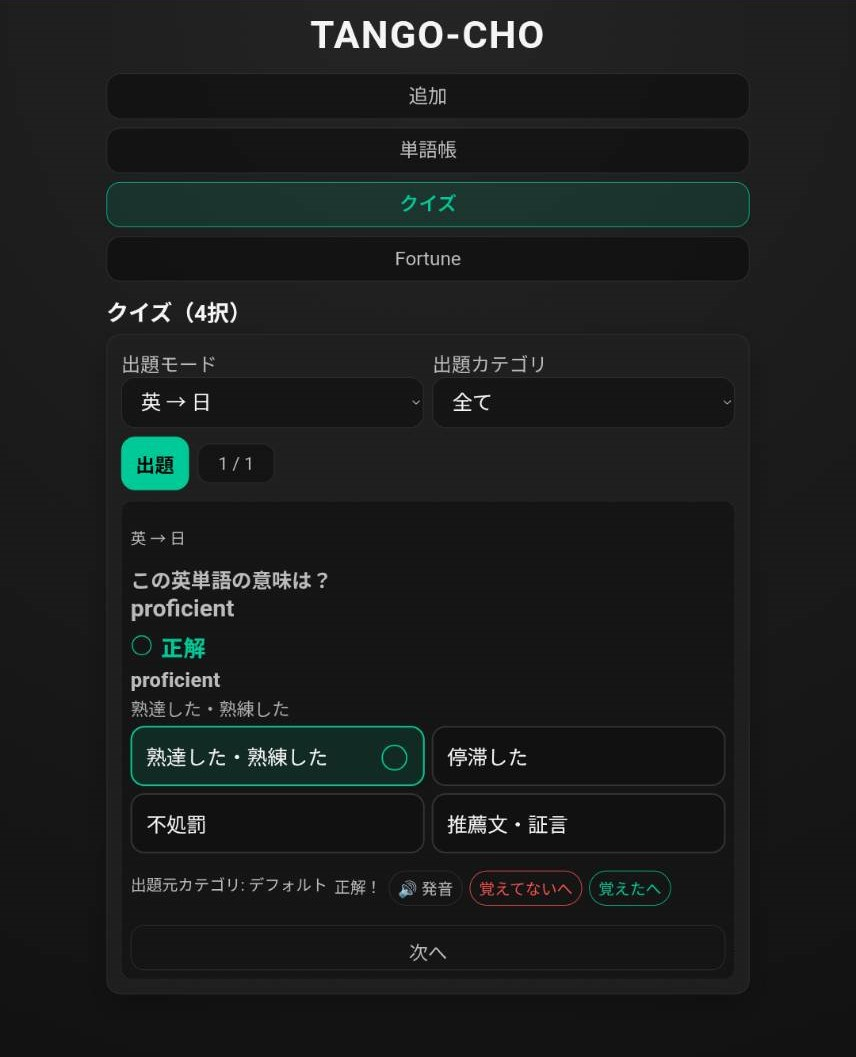
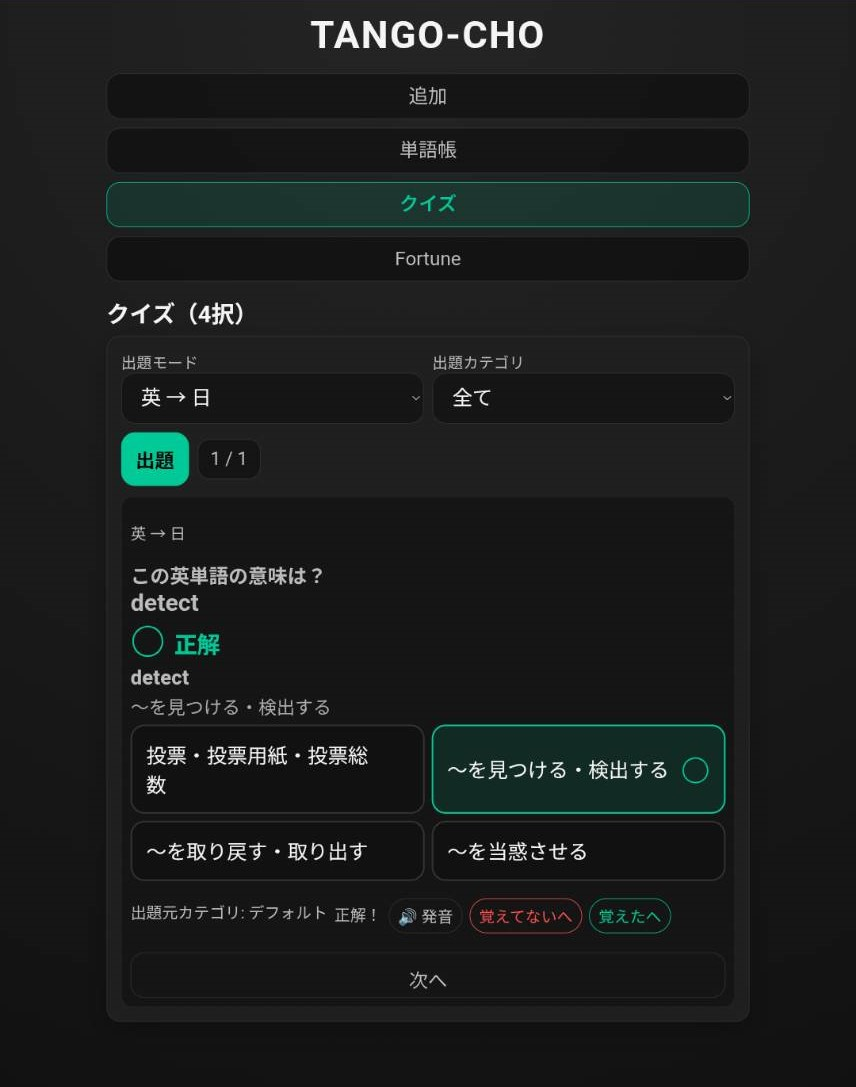
Add files via upload

diff --git a/style.css b/style.css
@@ -9,6 +9,11 @@
   --fs-xxs: 0.75rem;
   --fs-micro: 0.55rem;
 
+  /* Line-height scale */
+  --lh-body: 1.55;
+  --lh-ui: 1.25;
+  --lh-tight: 1.10;
+
   --padX:12px;
   --padCard:16px;
   --gap:10px;
@@ -16,15 +21,16 @@
   --controlR:16px;
   --controlPX:16px;
   --controlPY:14px;
-  --controlFS:1.0rem;
+  --controlFS: var(--fs-lg);
   --bg:#111; --card:#1f1f1f; --border:#333;
   --accent:#00c896; --accentSoft:rgba(0,200,150,.12);
   --text:#f5f5f5; --sub:#bbb; --danger:#ff4f4f;
   --r:16px;
 }
 *{box-sizing:border-box}
+html{-webkit-text-size-adjust:100%;text-size-adjust:100%}
 html,body{margin:0;padding:0;background:radial-gradient(circle at top,#252525,#050505);color:var(--text);
-  font-family:system-ui,-apple-system,"Segoe UI",sans-serif;font-size:22px}
+  font-family:system-ui,-apple-system,"Segoe UI",sans-serif;font-size:22px;line-height:var(--lh-body)}
 body{min-height:100vh;display:flex;flex-direction:column}
 .app-header{padding:16px var(--padX) 8px;text-align:center;max-width:760px;width:100%;margin:0 auto;box-sizing:border-box}
 .app-header h1{margin:0;font-size:2.0rem;letter-spacing:.04em}
@@ -33,7 +39,7 @@ body{min-height:100vh;display:flex;flex-direction:column}
   max-width:760px;width:100%;margin:0 auto;box-sizing:border-box;
   padding:10px var(--padX) 0;background:transparent}
 
-.tab-button{width:100%;display:flex;align-items:center;justify-content:center;text-align:center;padding:var(--controlPY) var(--controlPX);font-size:var(--controlFS);line-height:1;box-sizing:border-box;border-radius:var(--controlR);border:1px solid var(--border);background:rgba(0,0,0,.4);color:var(--sub);cursor:pointer;min-height:var(--controlH)}
+.tab-button{width:100%;display:flex;align-items:center;justify-content:center;text-align:center;padding:var(--controlPY) var(--controlPX);font-size:var(--controlFS);line-height:var(--lh-ui);box-sizing:border-box;border-radius:var(--controlR);border:1px solid var(--border);background:rgba(0,0,0,.4);color:var(--sub);cursor:pointer;min-height:var(--controlH)}
 .tab-button.active{background:var(--accentSoft);border-color:var(--accent);color:var(--accent);font-weight:600}
 .main{flex:1;padding:8px var(--padX) 16px;max-width:760px;width:100%;margin:0 auto}
 .section{display:none}
@@ -54,6 +60,8 @@ body{min-height:100vh;display:flex;flex-direction:column}
 .action-row #clearBtn{flex:1 1 120px}
 .action-row #translateState{flex:0 0 auto}
 @media (max-width: 430px){
+  html{font-size:22px}
+
   .action-row #translateBtn{flex:1 1 100%}
   .action-row #randomBtn,.action-row #clearBtn,.action-row #translateState{flex:1 1 120px}
 }
@@ -85,9 +93,9 @@ body{min-height:100vh;display:flex;flex-direction:column}
 
 input[type="text"],input[type="date"],textarea,select{
   width:100%;padding:14px 18px;border-radius:16px;border:1px solid var(--border);
-  background:#151515;color:var(--text);font-size:var(--fs-lg);min-height:52px
+  background:#151515;color:var(--text);font-size:var(--fs-lg);min-height:52px;line-height:var(--lh-ui)
 }
-textarea{resize:vertical}
+textarea{resize:vertical;line-height:var(--lh-body)}
 .select{appearance:auto}
 .select.small{padding:12px var(--controlPX);font-size:var(--controlFS);border-radius:var(--controlR);min-height:var(--controlH)}
 
@@ -133,8 +141,7 @@ details summary::-webkit-details-marker{display:none}
 .fortune-results{display:flex;flex-direction:column;gap:12px}
 .fortune-item{border:1px solid rgba(255,255,255,0.12);border-radius:14px;padding:16px;background:#101010}
 .fortune-head{display:flex;align-items:flex-start;justify-content:space-between;gap:var(--gap)}
-.fortune-title{font-weight:800;font-size:var(--fs-xxl);line-height:1.1}
-.fortune-meta{display:flex;align-items:center;gap:8px;flex-wrap:wrap}
+.fortune-title{font-weight:800;font-size:var(--fs-xxl);line-height:var(--lh-tight);align-items:center;gap:8px;flex-wrap:wrap}
 .fortune-pill{font-size:var(--fs-micro);padding:4px 8px;border-radius:999px;background:rgba(0,200,150,0.16);border:1px solid rgba(0,200,150,0.32)}
 .fortune-score{font-size:var(--fs-micro);opacity:0.85}
 .fortune-text{margin-top:10px;line-height:1.65;font-size:var(--fs-xl)}
@@ -142,7 +149,7 @@ details summary::-webkit-details-marker{display:none}
 .fortune-text .w:hover{background:rgba(255,255,255,0.08)}
 .fortune-actions{display:flex;gap:var(--gap);flex-wrap:wrap;margin-top:10px}
 .fortune-actions button{padding:10px 14px;border-radius:var(--controlR);min-height:44px;font-size:var(--fs-sm)}
-.fortune-jp{margin-top:8px;opacity:0.92;line-height:1.55font-size:var(--fs-xl)}
+.fortune-jp{margin-top:8px;opacity:0.92;line-height:var(--lh-body);font-size:var(--fs-xl)}
 .quiz-q{font-size:var(--fs-lg);font-weight:700;margin:0 0 10px}
 .quiz-choices{display:grid;grid-template-columns:1fr 1fr;gap:8px}
 @media (max-width:520px){.quiz-choices{grid-template-columns:1fr}}
@@ -152,8 +159,7 @@ details summary::-webkit-details-marker{display:none}
 }
 
 /* 日→英クイズ: 選択肢（英単語）の下に日本語訳を表示 */
-.choice-main{font-weight:700;line-height:1.2}
-.choice-sub{margin-top:6px;font-size:var(--fs-sm);color:var(--sub);line-height:1.25}
+.choice-main{font-weight:700;line-height:var(--lh-ui);font-size:var(--fs-sm);color:var(--sub);line-height:1.25}
 .choice-sub:empty{display:none}
 .choice-btn.correct{border-color:var(--accent);background:rgba(0,200,150,.12)}
 .choice-btn.wrong{border-color:var(--danger);background:rgba(255,79,79,.10)}
@@ -195,7 +201,7 @@ details summary::-webkit-details-marker{display:none}
 
 /* Quiz result feedback */
 .quiz-result{margin-top:10px;font-size:var(--fs-xl);font-weight:800;display:flex;align-items:center;gap:10px;}
-.quiz-result .mark{font-size:var(--fs-h1);line-height:1;}
+.quiz-result .mark{font-size:var(--fs-h1);line-height:var(--lh-ui);}
 .quiz-result.correct{color:var(--accent);}
 .quiz-result.wrong{color:var(--danger);}
 
